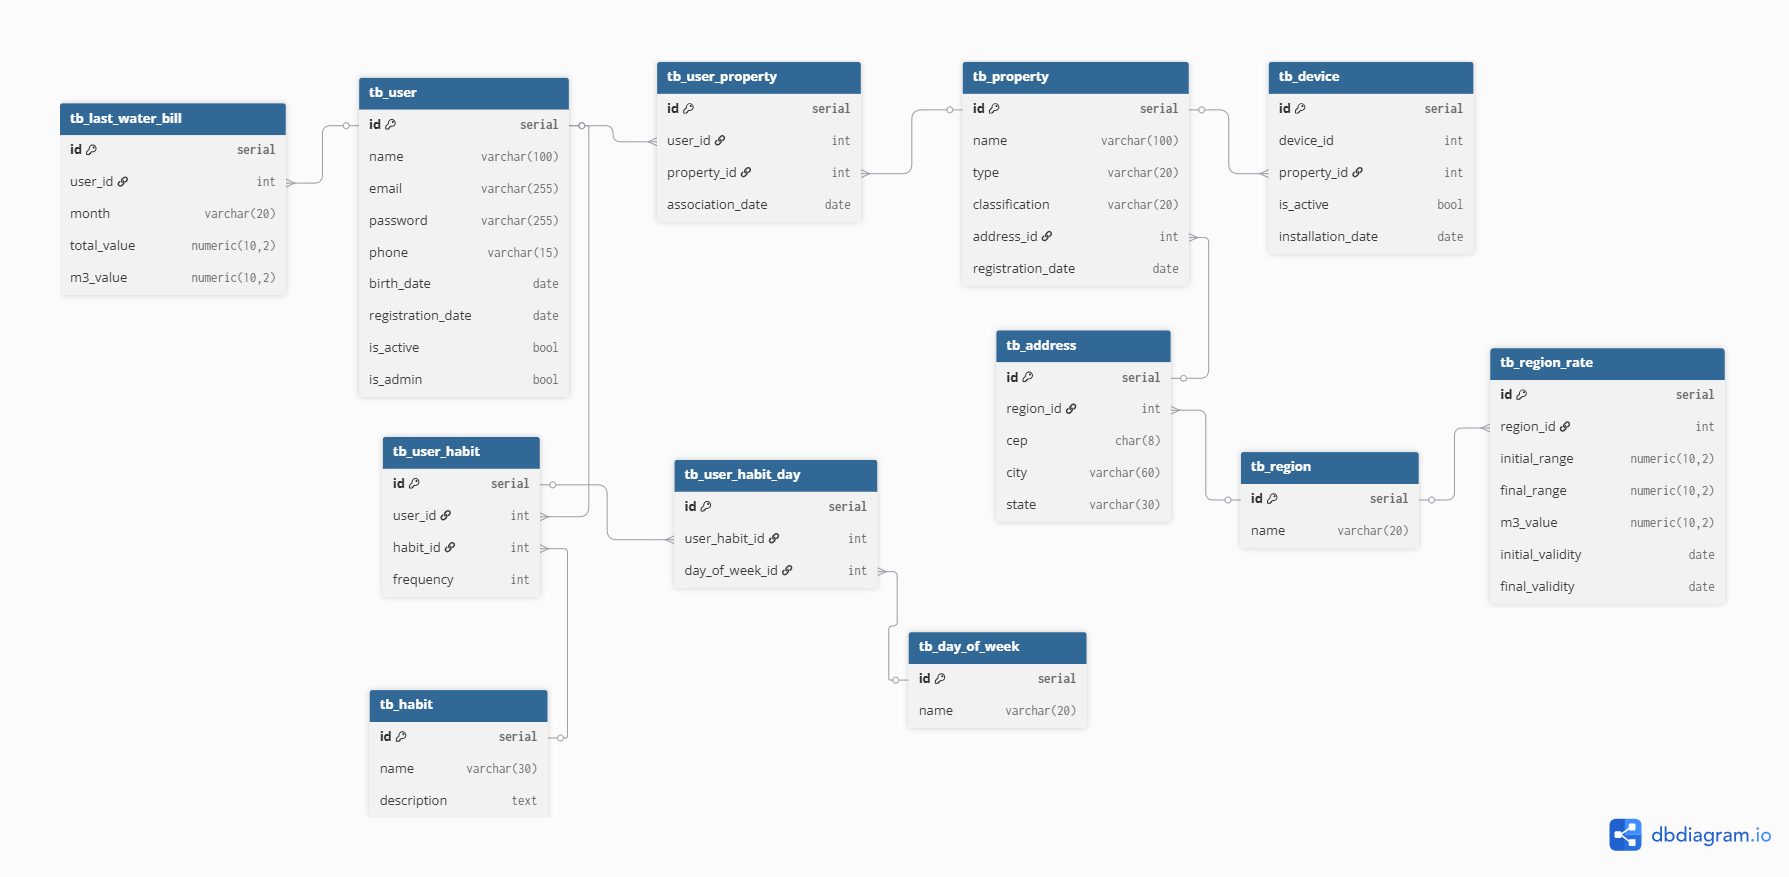
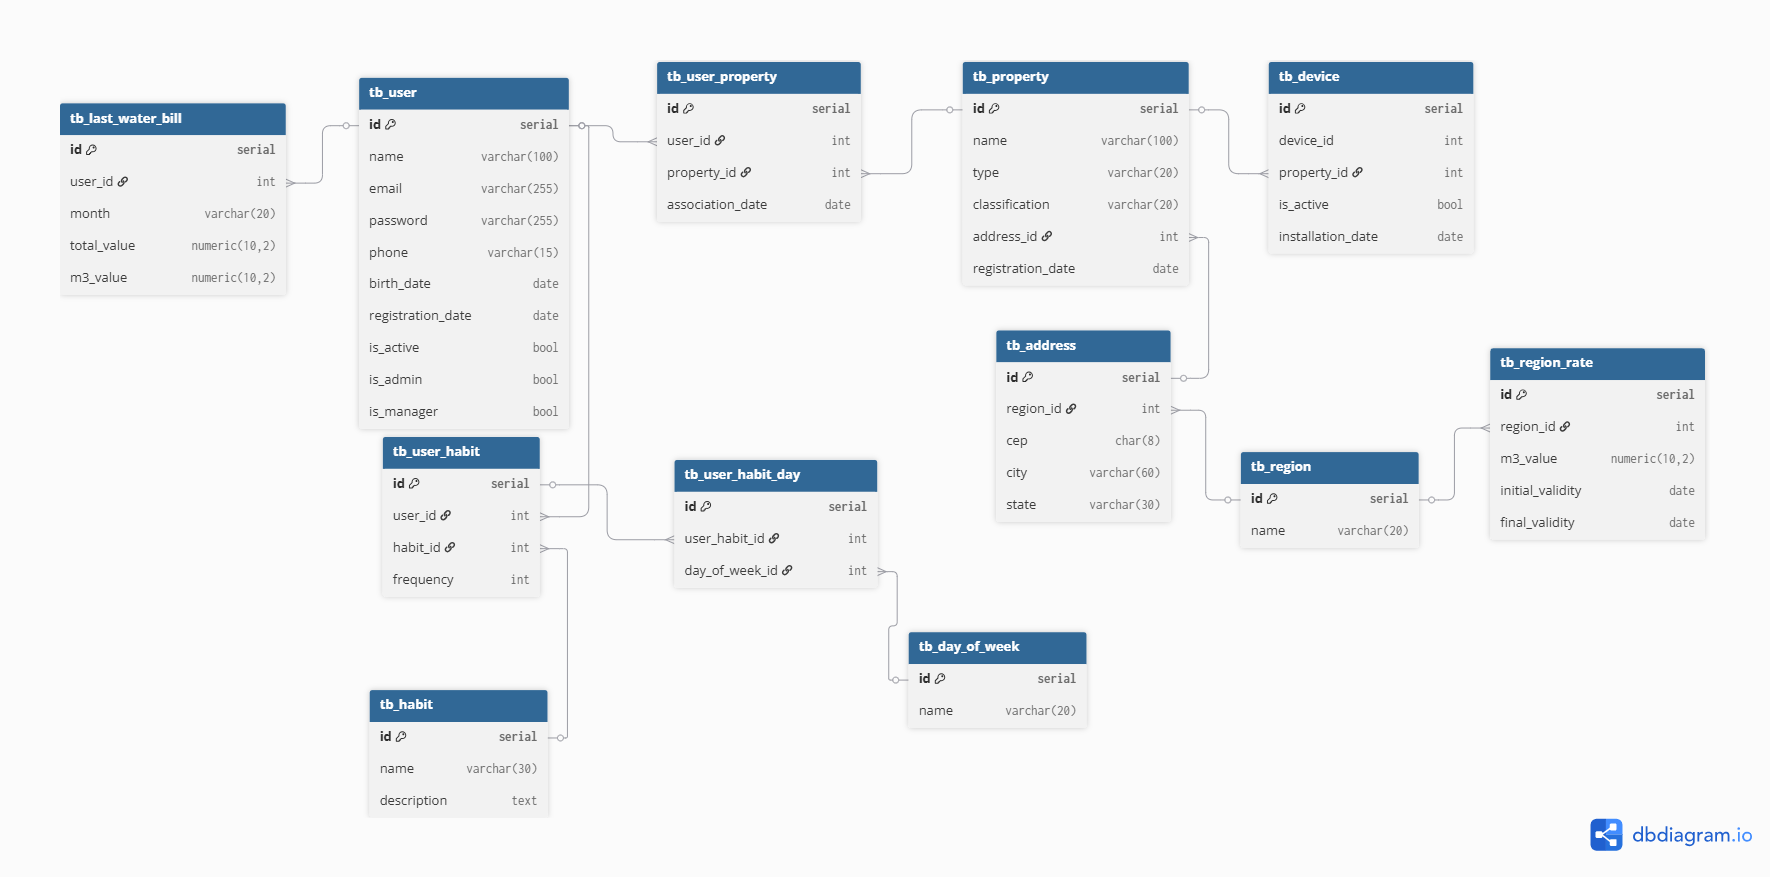
refactor: ajustando comentários referente a tabela de tarifa e de usuário

diff --git a/DADOS/modelagem-relacional.md b/DADOS/modelagem-relacional.md
@@ -67,6 +67,7 @@ Armazena os usuários do sistema.
 - **registration_date**: Data de cadastro (padrão: CURRENT_DATE).
 - **is_active**: Indica se o usuário está ativo.
 - **is_admin**: Indica se o usuário é administrador.
+- **is_manager**: Indica se o usuário é gerente, para a versão comercial.
 
 ---
 
@@ -117,8 +118,6 @@ Define tarifas de água por região e faixa de consumo.
 ### 📌 Atributos
 - **id (PK)**: Identificador da tarifa.
 - **region_id (FK)**: Referência para `tb_region`.
-- **initial_range**: Início da faixa de consumo (>= 0).
-- **final_range**: Fim da faixa de consumo (> inicial).
 - **m3_value**: Valor por m³ (> 0).
 - **initial_validity**: Início da vigência.
 - **final_validity**: Fim da vigência (pode ser NULL).